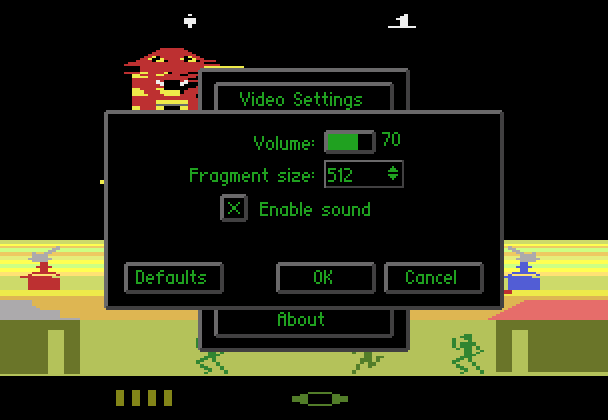
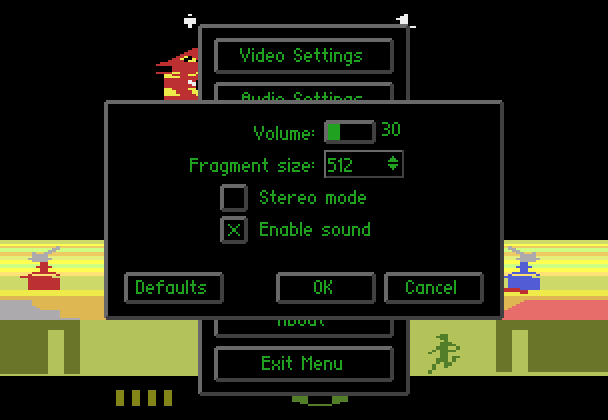
Updates to documentation and internal About/Help dialogs.

Changed region(s): [[0.1562, 0.031, 0.8438, 0.5881], [0.1562, 0.619, 0.875, 0.8976], [0.3125, 0.8048, 0.7188, 0.9595]]

diff --git a/stella/docs/stella.html b/stella/docs/stella.html
@@ -35,7 +35,7 @@
 
 	<br><br><br>
 
-	<center><b>February 1999 - September 2005</b></center>
+	<center><b>February 1999 - October 2005</b></center>
 	<center><b>The Stella Team</b></center>
 	<center><b><a href="http://stella.sourceforge.net">Stella Homepage</a></b></center>
 
@@ -240,14 +240,19 @@
 		<li>Added ZIP support.  Stella can now open ROM's compressed in zip
 			format.</li>
 
-		<li>Reworked properties system to use both a system-wide 'stella.pro' and
-			a per-user 'user.pro' properties files.  Changes made by the user
-			and stored in 'user.pro' are no longer erased when upgrading Stella.</li>
-
 		<li>Added ability to edit current ROM properties from directly within
 			Stella, which can then be saved directly into the 'user.pro' file.
 			So creating a properties entry for a new ROM can be done without
 			any external tools.</li>
+
+		<li>Added initial support for using Stella in an 'arcade-box'
+			environment without a keyboard.  This consists of an in-game
+			menu for choosing common actions in Stella, as well as using the
+			game to navigate the mouse pointer.</li>
+
+		<li>Reworked properties system to use both a system-wide 'stella.pro' and
+			a per-user 'user.pro' properties files.  Changes made by the user
+			and stored in 'user.pro' are no longer erased when upgrading Stella.</li>
 
 		<li>Added cartridge 'frying', thanks to Fred "batari" Quimby.  This
 			emulates the action of turning the power button on and off on a
@@ -687,6 +692,11 @@
 		</tr>
 
 		<tr>
+			<td><pre>-joymouse &lt;0|1&gt;</pre></td>
+			<td>Indicates whether the joystick emulates the mouse in GUI mode (defaults to off).</td>
+		</tr>
+
+		<tr>
 			<td><pre>-showinfo &lt;0|1&gt;</pre></td>
 			<td>Shows some game info while Stella is running.</td>
 		</tr>
@@ -965,6 +975,12 @@
 			<td>Enter/exit options mode</td>
 			<td>Tab</td>
 			<td>Tab</td>
+		</tr>
+
+		<tr>
+			<td>Enter/exit command mode</td>
+			<td>Backslash (\)</td>
+			<td>Backslash (\)</td>
 		</tr>
 
 		<tr>
